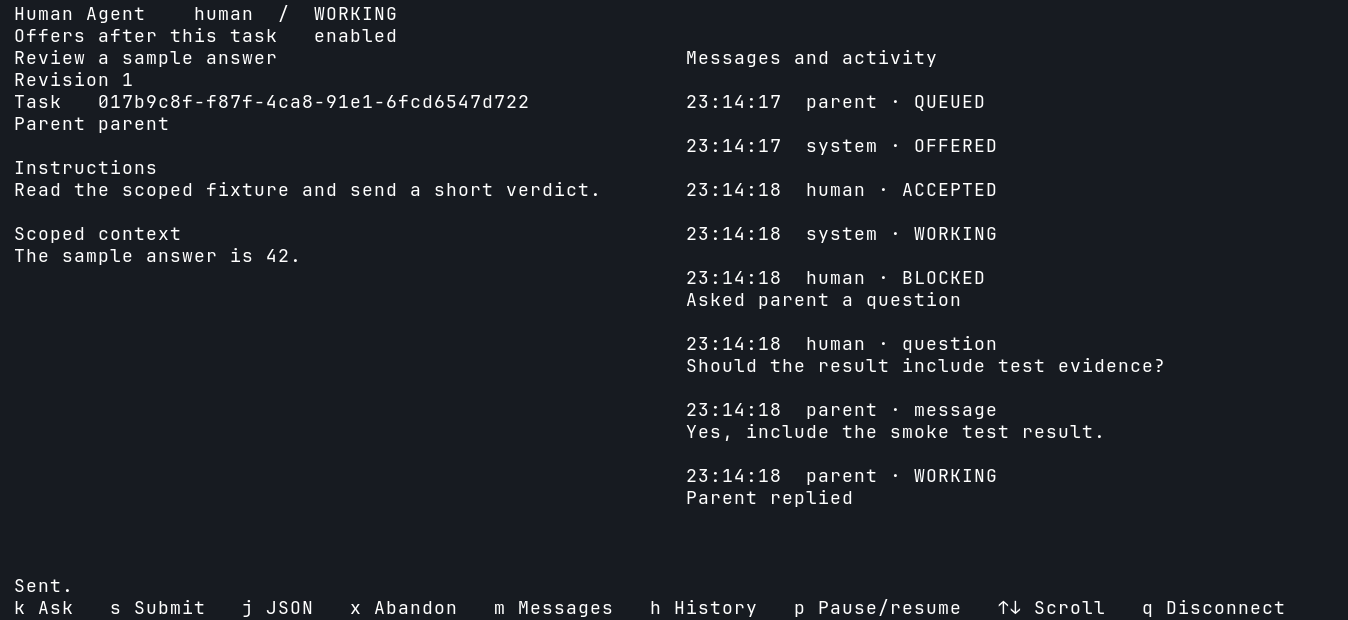
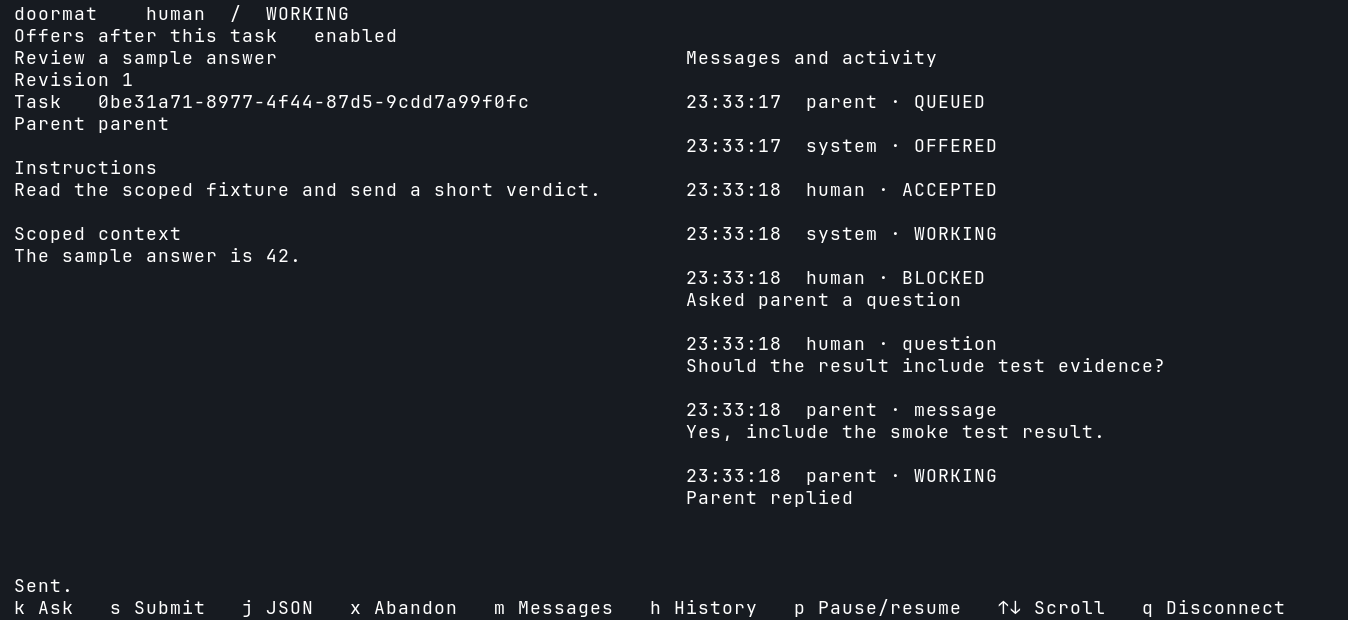
Rename Human Agent to doormat

diff --git a/src/cli.ts b/src/cli.ts
@@ -6,23 +6,23 @@ import { paths, parentToken, workerIdentity } from "./local";
 import { DomainError, id, taskId } from "./model";
 import { parentRoutes, type ParentMethod, type Params } from "./rpc";
 
-const help = `Human Agent — local human delegation runtime
+const help = `doormat — local human delegation runtime
 
 Usage
-  human-agent daemon
-  human-agent mcp                          MCP stdio bridge
-  human-agent attach [--worker ID] [--available]
-  human-agent connect [--worker ID]        Connect without opting into offers
-  human-agent online [--worker ID]         Opt in for one headless lease
-  human-agent status | heartbeat | pause | resume | disconnect
-  human-agent accept [TASK] | reject REASON [TASK]
-  human-agent ask TEXT [TASK] | abandon REASON [TASK]
-  human-agent workspace [TASK] [--tmux]     Print path or retry setup
-  human-agent submit FILE|- [TASK]         Submit JSON with revision and submissionId
-  human-agent events [TASK] [--after CURSOR]
-  human-agent history
-  human-agent parent TOOL [FILE|-]         Call a parent tool with JSON
-  human-agent route FILE|-                  Evaluate opt-in routing policy
+  doormat daemon
+  doormat mcp                          MCP stdio bridge
+  doormat attach [--worker ID] [--available]
+  doormat connect [--worker ID]        Connect without opting into offers
+  doormat online [--worker ID]         Opt in for one headless lease
+  doormat status | heartbeat | pause | resume | disconnect
+  doormat accept [TASK] | reject REASON [TASK]
+  doormat ask TEXT [TASK] | abandon REASON [TASK]
+  doormat workspace [TASK] [--tmux]     Print path or retry setup
+  doormat submit FILE|- [TASK]         Submit JSON with revision and submissionId
+  doormat events [TASK] [--after CURSOR]
+  doormat history
+  doormat parent TOOL [FILE|-]         Call a parent tool with JSON
+  doormat route FILE|-                  Evaluate opt-in routing policy
 
 Worker operations accept --worker ID (default: human).
 Headless sessions must heartbeat at least once per minute.
@@ -63,9 +63,9 @@ async function main() {
     status: [0, 0], heartbeat: [0, 0], pause: [0, 0], resume: [0, 0], disconnect: [0, 0],
     accept: [0, 1], reject: [1, 2], ask: [1, 2], abandon: [1, 2], workspace: [0, 1], submit: [1, 2],
     events: [0, 1], history: [0, 0], parent: [1, 2], route: [1, 1] };
-  if (!Object.hasOwn(count, command)) throw new Error("Unknown command. Run human-agent --help");
+  if (!Object.hasOwn(count, command)) throw new Error("Unknown command. Run doormat --help");
   const [min, max] = count[command]!;
-  if (cli.positionals.length < min || cli.positionals.length > max) throw new Error("Unexpected or missing arguments. Run human-agent --help");
+  if (cli.positionals.length < min || cli.positionals.length > max) throw new Error("Unexpected or missing arguments. Run doormat --help");
   const flags: Record<string, string[]> = { daemon: [], mcp: [], parent: [], route: [], attach: ["worker", "available"],
     workspace: ["worker", "tmux"], events: ["worker", "after"] };
   if (Object.keys(cli.values).some((value) => !(flags[command] ?? ["worker"]).includes(value))) throw new Error("Flag is unsupported for this command");

diff --git a/test/integration.test.ts b/test/integration.test.ts
@@ -32,8 +32,8 @@ beforeEach(() => {
   root = mkdtempSync(join(tmpdir(), "ha-ipc-"));
   repo = join(root, "git repo");
   env = { PATH: process.env.PATH!, HOME: root, GIT_CONFIG_NOSYSTEM: "1", GIT_CONFIG_GLOBAL: "/dev/null",
-    XDG_STATE_HOME: join(root, "state"), XDG_RUNTIME_DIR: join(root, "run"), HUMAN_AGENT_PARENT_TOKEN: owner,
-    HUMAN_AGENT_REPOSITORIES: JSON.stringify({ demo: repo }) };
+    XDG_STATE_HOME: join(root, "state"), XDG_RUNTIME_DIR: join(root, "run"), DOORMAT_PARENT_TOKEN: owner,
+    DOORMAT_REPOSITORIES: JSON.stringify({ demo: repo }) };
   mkdirSync(repo);
   git("init", "-q");
   writeFileSync(join(repo, "example"), "base\n");
@@ -128,10 +128,10 @@ test("MCP SDK stdio lists tools, delegates, exchanges messages and reviews a sub
   await start();
   const tokenFile = join(root, "parent.token");
   writeFileSync(tokenFile, owner + "\n", { mode: 0o600 });
-  const { HUMAN_AGENT_PARENT_TOKEN: _token, ...stdioEnv } = env;
+  const { DOORMAT_PARENT_TOKEN: _token, ...stdioEnv } = env;
   const transport = new StdioClientTransport({ command: process.execPath, args: ["--no-env-file", entry, "mcp"],
-    env: { ...stdioEnv, HUMAN_AGENT_PARENT_TOKEN_FILE: tokenFile }, stderr: "pipe" });
-  const client = new Client({ name: "human-agent-test", version: "0.1.0" });
+    env: { ...stdioEnv, DOORMAT_PARENT_TOKEN_FILE: tokenFile }, stderr: "pipe" });
+  const client = new Client({ name: "doormat-test", version: "0.1.0" });
   try {
     await client.connect(transport);
     expect((await client.listTools()).tools.map((tool) => tool.name)).toContain("complete_human_task");
@@ -248,4 +248,22 @@ test("workspace setup rejects repository-defined external filters", async () => 
   const offer = (await ipc.human(human, "connect", { available: true })).task!;
   await expect(ipc.human(human, "accept", { taskId, offerId: offer.offerId! })).rejects.toThrow("external filters");
   expect((await ipc.parent(owner, "get_human_status", { taskId })).state).toBe("ACCEPTED");
+});
+
+test("legacy environment variables still connect to the existing runtime", async () => {
+  env.HUMAN_AGENT_PARENT_TOKEN = owner;
+  env.HUMAN_AGENT_REPOSITORIES = env.DOORMAT_REPOSITORIES!;
+  delete env.DOORMAT_PARENT_TOKEN;
+  delete env.DOORMAT_REPOSITORIES;
+  await start();
+  const payload = JSON.stringify({ ...taskSpec, workspace: { repository: "demo", ref: base } });
+  const child = Bun.spawn([process.execPath, entry, "parent", "delegate_to_human", "-"], {
+    env, stdin: new Blob([payload]), stdout: "pipe", stderr: "pipe",
+  });
+  const [exit, output, errors] = await Promise.all([
+    child.exited, new Response(child.stdout).text(), new Response(child.stderr).text(),
+  ]);
+  expect(errors).toBe("");
+  expect(exit).toBe(0);
+  expect((await ipc.parent(owner, "get_human_status", { taskId: JSON.parse(output).taskId })).state).toBe("QUEUED");
 });

diff --git a/src/local.ts b/src/local.ts
@@ -34,8 +34,9 @@ export function ownSocket(path: string, checkMode = true) {
 }
 
 export function parentToken() {
-  const file = process.env.HUMAN_AGENT_PARENT_TOKEN_FILE;
-  let value = process.env.HUMAN_AGENT_PARENT_TOKEN;
+  const renamedConfig = process.env.DOORMAT_PARENT_TOKEN || process.env.DOORMAT_PARENT_TOKEN_FILE;
+  const file = renamedConfig ? process.env.DOORMAT_PARENT_TOKEN_FILE : process.env.HUMAN_AGENT_PARENT_TOKEN_FILE;
+  let value = renamedConfig ? process.env.DOORMAT_PARENT_TOKEN : process.env.HUMAN_AGENT_PARENT_TOKEN;
   if (!value && file) {
     if (!isAbsolute(file)) throw new DomainError("CONFIG", "Parent token file path must be absolute");
     const info = lstatSync(file);
@@ -45,7 +46,7 @@ export function parentToken() {
     value = readFileSync(file, "utf8").trim();
   }
   const parsed = token.safeParse(value);
-  if (!parsed.success) throw new DomainError("CONFIG", "Configure a stable random HUMAN_AGENT_PARENT_TOKEN or HUMAN_AGENT_PARENT_TOKEN_FILE");
+  if (!parsed.success) throw new DomainError("CONFIG", "Configure a stable random DOORMAT_PARENT_TOKEN or DOORMAT_PARENT_TOKEN_FILE");
   return parsed.data;
 }
 

diff --git a/src/git.ts b/src/git.ts
@@ -8,7 +8,7 @@ const repositoryMap = z.record(id, z.string().refine(isAbsolute));
 const hash = /^[0-9a-f]{40}$|^[0-9a-f]{64}$/;
 
 export function configuredRepositories() {
-  return repositoryMap.parse(JSON.parse(process.env.HUMAN_AGENT_REPOSITORIES ?? "{}"));
+  return repositoryMap.parse(JSON.parse(process.env.DOORMAT_REPOSITORIES ?? process.env.HUMAN_AGENT_REPOSITORIES ?? "{}"));
 }
 
 function gitEnvironment() {
@@ -102,7 +102,7 @@ export class GitWorkspaces implements WorkspacePort {
 }
 
 export async function tmuxWorkspace(path: string, id: string) {
-  const name = "human-agent-" + taskId.parse(id);
+  const name = "doormat-" + taskId.parse(id);
   if (!isAbsolute(path) || await realpath(path) !== path) throw new Error("The workspace path has moved");
   const session = Bun.spawn(["tmux", "has-session", "-t", "=" + name], { stdout: "ignore", stderr: "ignore" });
   if (await session.exited !== 0) {

diff --git a/src/daemon.ts b/src/daemon.ts
@@ -11,7 +11,7 @@ function lock(path: string) {
   try { db.exec("PRAGMA busy_timeout=0; BEGIN EXCLUSIVE;"); }
   catch {
     db.close();
-    throw new Error("The Human Agent runtime or state directory is already in use");
+    throw new Error("The doormat runtime or state directory is already in use");
   }
   return db;
 }
@@ -32,7 +32,7 @@ export async function daemon() {
         const service = new AgentService(repo, workspaces);
         service.start();
         const listener = await listen(config.socket, service);
-        console.error(`Human Agent listening at ${config.socket}`);
+        console.error(`doormat listening at ${config.socket}`);
         const timer = setInterval(() => {
           try { service.tick(); }
           catch (error) { console.error("Queue tick failed:", error); }

diff --git a/src/tui.ts b/src/tui.ts
@@ -110,7 +110,7 @@ export async function attach(client: LocalClient, human: Human, available: boole
       const compact = width < 44 || height < 12;
       const wide = width >= 100 && height >= 24;
       const task = taskForView();
-      set(header, `Human Agent    ${human.worker}  /  ${networkError ? "OFFLINE" : snapshot?.availability ?? "CONNECTING"}`);
+      set(header, `doormat    ${human.worker}  /  ${networkError ? "OFFLINE" : snapshot?.availability ?? "CONNECTING"}`);
       const showOfferPolicy = !!snapshot?.task && snapshot.task.state !== "OFFERED";
       set(status, showOfferPolicy ? `Offers after this task   ${snapshot!.offersEnabled ? "enabled" : "paused"}` : "");
       status.visible = !compact && showOfferPolicy;

diff --git a/src/mcp.ts b/src/mcp.ts
@@ -26,7 +26,7 @@ const callResult = (value: object, isError = false): CallToolResult => ({
 export async function mcp() {
   const client = new LocalClient(paths().socket);
   const auth = parentToken();
-  const server = new McpServer({ name: "human-agent", version: "0.1.0" });
+  const server = new McpServer({ name: "doormat", version: "0.1.0" });
   function register<M extends ParentMethod>(name: M) {
     server.registerTool(name, { description: descriptions[name], inputSchema: parentRoutes[name].schema }, async (args: unknown) => {
       try { return callResult(await client.parent(auth, name, args as Params<M>)); }

diff --git a/src/ipc.ts b/src/ipc.ts
@@ -60,7 +60,7 @@ export async function listen(socketPath: string, service: AgentService) {
         if (error.code === "ECONNREFUSED") resolve();
         else reject(error);
       });
-      socket.once("connect", () => { socket.destroy(); reject(new Error("A Human Agent daemon is already listening")); });
+      socket.once("connect", () => { socket.destroy(); reject(new Error("A doormat daemon is already listening")); });
       socket.setTimeout(2_000, () => { socket.destroy(); reject(new Error("Existing socket did not respond")); });
     });
     unlinkSync(socketPath);

diff --git a/README.md b/README.md
@@ -1,8 +1,10 @@
-# Human Agent
+# doormat
 
-A local runtime for handing scoped work from an AI parent to an opted-in human. SSH into the Linux host and run `human-agent attach`. Accept an assignment, work from another shell or tmux session, ask the parent questions, and submit for review.
+human as an agent
 
-![Human Agent running in an actual xterm/tmux terminal](assets/terminal.png)
+A local runtime for handing scoped work from an AI parent to an opted-in human. SSH into the Linux host and run `doormat attach`. Accept an assignment, work from another shell or tmux session, ask the parent questions, and submit for review.
+
+![doormat running in an actual xterm/tmux terminal](assets/terminal.png)
 
 ## Install and run on Linux
 
@@ -18,77 +20,79 @@ bun run build
 ./scripts/tui-smoke.sh
 ```
 
-All commands can run from the checkout. For a user-local `human-agent` command, create a symlink and put `$HOME/.local/bin` on `PATH`.
+All commands can run from the checkout. For a user-local `doormat` command, create a symlink and put `$HOME/.local/bin` on `PATH`.
 
 ```sh
 mkdir -p "$HOME/.local/bin"
-ln -s "$PWD/src/cli.ts" "$HOME/.local/bin/human-agent"
+ln -s "$PWD/src/cli.ts" "$HOME/.local/bin/doormat"
 ```
 
-Run `human-agent daemon` in one shell and `human-agent attach --worker alice` in another. Use `bun --no-env-file src/cli.ts` in place of `human-agent` if you skipped the symlink. The build emits `dist/cli.js` for Bun and uses the installed dependencies.
+Run `doormat daemon` in one shell and `doormat attach --worker alice` in another. Use `bun --no-env-file src/cli.ts` in place of `doormat` if you skipped the symlink. The build emits `dist/cli.js` for Bun and uses the installed dependencies.
 
 On Linux without a user runtime directory, create an owned private directory and export its absolute path as `XDG_RUNTIME_DIR` in every participating process. Use the same XDG settings for the daemon, SSH shell, and MCP host. The default runtime base is `/run/user/$(id -u)` and the default state base is `$HOME/.local/state`.
+
+The runtime retains the `human-agent` XDG subdirectories and accepts legacy `HUMAN_AGENT_*` environment variables so existing queues, worktrees, and credentials remain accessible after the rename.
 
 ## Try a task
 
 Press `p` in the TUI to opt in, or launch with `--available`. In a parent shell on the same host, create a stable token and submit an assignment.
 
 ```sh
-mkdir -p "$HOME/.config/human-agent"
-export HUMAN_AGENT_PARENT_TOKEN_FILE="$HOME/.config/human-agent/parent.token"
-(umask 077; set -C; bun -e 'import {randomBytes} from "node:crypto"; console.log(randomBytes(32).toString("base64url"))' > "$HUMAN_AGENT_PARENT_TOKEN_FILE")
-human-agent parent delegate_to_human - <<'JSON'
+mkdir -p "$HOME/.config/doormat"
+export DOORMAT_PARENT_TOKEN_FILE="$HOME/.config/doormat/parent.token"
+(umask 077; set -C; bun -e 'import {randomBytes} from "node:crypto"; console.log(randomBytes(32).toString("base64url"))' > "$DOORMAT_PARENT_TOKEN_FILE")
+doormat parent delegate_to_human - <<'JSON'
 {"requestId":"demo-1","parentId":"demo-parent","title":"Verify the sample","instructions":"Read the scoped context and report the sample value.","context":"The sample value is 42.","allowedTools":["shell"]}
 JSON
 ```
 
 Press `a` to accept, `k` to ask a question, and `F2` to send. Use `m` to view messages, `s` to submit a summary, or `j` to submit JSON fields for evidence, a Git ref, a diff, or structured output. Both submission forms use `F2`. Press `h` for your assignment history and `q` to disconnect. At 100 columns and 24 rows the TUI shows task and activity side by side. At 60 columns it uses a single scrollable view with `m` switching between panes.
 
-The headless CLI supports the same workflow. `connect` opens a headless session without opting into new offers. `online` opts in for a 60-second lease. `heartbeat` or `status` renews it. Pass `--worker alice` to each worker command. Run `human-agent --help` for the command list. Example submission file contents follow.
+The headless CLI supports the same workflow. `connect` opens a headless session without opting into new offers. `online` opts in for a 60-second lease. `heartbeat` or `status` renews it. Pass `--worker alice` to each worker command. Run `doormat --help` for the command list. Example submission file contents follow.
 
 ```json
 {"submissionId":"demo-first","revision":1,"summary":"Sample verified","evidence":["The fixture reports 42."],"output":{"value":42}}
 ```
 
 ```sh
-human-agent submit result.json --worker alice
+doormat submit result.json --worker alice
 ```
 
-The parent can call any MCP tool through `human-agent parent TOOL [FILE|-]`. Read a result by sending `{"taskId":"…"}` to `get_human_result`. To approve it, pass the task ID and returned submission ID to `complete_human_task`. The automated demo creates an isolated fixture repo, exchanges a question and answer, and completes after one round of rework. The PTY smoke script drives the real TUI in an isolated tmux server.
+The parent can call any MCP tool through `doormat parent TOOL [FILE|-]`. Read a result by sending `{"taskId":"…"}` to `get_human_result`. To approve it, pass the task ID and returned submission ID to `complete_human_task`. The automated demo creates an isolated fixture repo, exchanges a question and answer, and completes after one round of rework. The PTY smoke script drives the real TUI in an isolated tmux server.
 
 ## Git workspaces
 
-Set `HUMAN_AGENT_REPOSITORIES` in the daemon environment to a JSON map of approved aliases to absolute paths, such as `{"demo":"/home/alice/src/demo"}`. Include `"workspace":{"repository":"demo","ref":"<commit-sha>"}` in the task. A plain local branch or tag also works. Use a full hash when the base must remain stable from creation through acceptance.
+Set `DOORMAT_REPOSITORIES` in the daemon environment to a JSON map of approved aliases to absolute paths, such as `{"demo":"/home/alice/src/demo"}`. Include `"workspace":{"repository":"demo","ref":"<commit-sha>"}` in the task. A plain local branch or tag also works. Use a full hash when the base must remain stable from creation through acceptance.
 
-Explicit acceptance reserves the assignment and pins the Git base before checkout. The daemon creates a detached worktree under `$XDG_STATE_HOME/human-agent/worktrees/<task-id>` and displays its exact path. Open the path in another SSH shell or use `w` in the TUI to create a detached tmux session. The headless equivalent is `human-agent workspace --worker alice --tmux`. An interrupted setup stays `ACCEPTED`. Press `w` to retry. If the reserved path is dirty, moved, a symlink, or otherwise ambiguous, inspect it manually. The daemon preserves worktrees and their registration, including after cancellation.
+Explicit acceptance reserves the assignment and pins the Git base before checkout. The daemon creates a detached worktree under `$XDG_STATE_HOME/human-agent/worktrees/<task-id>` and displays its exact path. Open the path in another SSH shell or use `w` in the TUI to create a detached tmux session. The headless equivalent is `doormat workspace --worker alice --tmux`. An interrupted setup stays `ACCEPTED`. Press `w` to retry. If the reserved path is dirty, moved, a symlink, or otherwise ambiguous, inspect it manually. The daemon preserves worktrees and their registration, including after cancellation.
 
 For a Git submission, commit in the task checkout and send the full commit hash in `gitRef`, or send a small diff. The daemon stores submitted evidence as provided. Reviewers resolve and inspect Git refs themselves. Worktrees share repository metadata and refs with the source checkout. Use repositories and Git configurations controlled by the operator. Managed setup disables hooks, fsmonitor, global and system Git config, protocol access, and external filters. Submodule initialization and partial clone fetching are outside the runtime workflow.
 
 ## NixOS user service
 
-Copy [examples/human-agent.service](examples/human-agent.service) into `~/.config/systemd/user/human-agent.service`, replacing the Bun binary and checkout paths. If using worktrees, copy and edit [examples/daemon.env](examples/daemon.env) under `~/.config/human-agent/`. Ensure `git` and `flock` are on the unit's `PATH`.
+Copy [examples/doormat.service](examples/doormat.service) into `~/.config/systemd/user/doormat.service`, replacing the Bun binary and checkout paths. If using worktrees, copy and edit [examples/daemon.env](examples/daemon.env) under `~/.config/doormat/`. Ensure `git` and `flock` are on the unit's `PATH`.
 
 ```sh
 systemctl --user daemon-reload
-systemctl --user enable --now human-agent.service
-journalctl --user -u human-agent.service
+systemctl --user enable --now doormat.service
+journalctl --user -u doormat.service
 ```
 
 The unit uses the user manager's runtime directory. Survival across logout depends on the existing user-manager lifecycle on the host. The foreground daemon is also supported. The service examples have no dependency on T3 or Paseo configuration.
 
 ## MCP hosts
 
-The bridge command is `/absolute/path/to/bun --no-env-file /absolute/path/to/human-agent/src/cli.ts mcp`. It uses MCP stdio over the host's process pipes and connects to the existing Unix socket. The host must launch it on the daemon machine under the same Unix account. Use an absolute parent token file path and forward `XDG_RUNTIME_DIR` for custom locations. The `HUMAN_AGENT_PARENT_TOKEN` environment variable is also supported and takes precedence. Keep each parent's stable token private because it owns that parent's tasks.
+The bridge command is `/absolute/path/to/bun --no-env-file /absolute/path/to/doormat/src/cli.ts mcp`. It uses MCP stdio over the host's process pipes and connects to the existing Unix socket. The host must launch it on the daemon machine under the same Unix account. Use an absolute parent token file path and forward `XDG_RUNTIME_DIR` for custom locations. The `DOORMAT_PARENT_TOKEN` environment variable is also supported and takes precedence. Keep each parent's stable token private because it owns that parent's tasks.
 
 The bridge was exercised with the official MCP TypeScript SDK client. The following Codex and Claude Code registration syntax was checked against local CLI help and upstream docs. Registration and full host sessions were left to the operator.
 
 **Codex** `config.toml` or project `.codex/config.toml` entry. [Codex MCP docs](https://developers.openai.com/codex/mcp)
 
 ```toml
-[mcp_servers.human_agent]
+[mcp_servers.doormat]
 command = "/home/alice/.nix-profile/bin/bun"
-args = ["--no-env-file", "/home/alice/src/human-agent/src/cli.ts", "mcp"]
-env = { HUMAN_AGENT_PARENT_TOKEN_FILE = "/home/alice/.config/human-agent/parent.token" }
+args = ["--no-env-file", "/home/alice/src/doormat/src/cli.ts", "mcp"]
+env = { DOORMAT_PARENT_TOKEN_FILE = "/home/alice/.config/doormat/parent.token" }
 env_vars = ["XDG_RUNTIME_DIR"]
 ```
 
@@ -97,17 +101,17 @@ env_vars = ["XDG_RUNTIME_DIR"]
 ```json
 {
   "mcpServers": {
-    "human_agent": {
+    "doormat": {
       "type": "stdio",
       "command": "/home/alice/.nix-profile/bin/bun",
-      "args": ["--no-env-file", "/home/alice/src/human-agent/src/cli.ts", "mcp"],
-      "env": {"HUMAN_AGENT_PARENT_TOKEN_FILE": "/home/alice/.config/human-agent/parent.token"}
+      "args": ["--no-env-file", "/home/alice/src/doormat/src/cli.ts", "mcp"],
+      "env": {"DOORMAT_PARENT_TOKEN_FILE": "/home/alice/.config/doormat/parent.token"}
     }
   }
 }
 ```
 
-**T3 Code.** Use the Codex provider's actual configuration home or the Claude provider's project configuration as above. Check that the resulting thread lists `human_agent` tools. Provider launch overrides and instance-specific config homes vary. The exact configuration path and live injection on this installation are unverified. T3's own orchestration MCP endpoint serves a different purpose. [T3 provider docs](https://github.com/pingdotgg/t3code/blob/main/docs/internals/providers.md) · [Codex override issue](https://github.com/pingdotgg/t3code/issues/15828)
+**T3 Code.** Use the Codex provider's actual configuration home or the Claude provider's project configuration as above. Check that the resulting thread lists `doormat` tools. Provider launch overrides and instance-specific config homes vary. The exact configuration path and live injection on this installation are unverified. T3's own orchestration MCP endpoint serves a different purpose. [T3 provider docs](https://github.com/pingdotgg/t3code/blob/main/docs/internals/providers.md) · [Codex override issue](https://github.com/pingdotgg/t3code/issues/15828)
 
 **Paseo.** The JSON above is also the documented shape of a Paseo agent's `mcpServers` map inside a session configuration. An existing trusted plugin can supply the entry from `agent.open.before`, or persist it via `agent.create.before`. Hook availability and provider support in the installed build are unverified. The local `paseo agent run --help` has no MCP registration flag. [Paseo stdio type](https://github.com/getpaseo/paseo/blob/main/packages/protocol/src/agent-types.ts) · [Paseo hook docs](https://upd.dev/getpaseo/paseo/src/branch/main/public-docs/plugins/hooks.md)
 
@@ -116,12 +120,12 @@ env_vars = ["XDG_RUNTIME_DIR"]
 Use [the human-delegate skill](skills/human-delegate/SKILL.md) as the parent prompt or install it into your chosen host's skill directory. Explicit delegation is the default. Automatic and random routing require an opt-in caller policy, eligible work, and an available worker. The policy helper can be called as follows.
 
 ```sh
-human-agent route - <<'JSON'
+doormat route - <<'JSON'
 {"mode":"random","eligible":true,"available":true,"attemptId":"review-42","rate":0.25}
 JSON
 ```
 
-The parent owns the routing decision and substitutes Human Agent for one planned subtask. Native AI subagents continue to work independently. The stable attempt ID makes the random choice reproducible. `list_available_humans` reports advisory availability. The daemon assigns offers transactionally.
+The parent owns the routing decision and substitutes doormat for one planned subtask. Native AI subagents continue to work independently. The stable attempt ID makes the random choice reproducible. `list_available_humans` reports advisory availability. The daemon assigns offers transactionally.
 
 | Tool | Main arguments and behavior |
 | --- | --- |

diff --git a/skills/human-delegate/SKILL.md b/skills/human-delegate/SKILL.md
@@ -1,13 +1,13 @@
 ---
 name: human-delegate
-description: Delegate scoped tasks to an opted-in Human Agent worker, answer their questions, and review submissions. Use when the user explicitly asks for a human handoff or when an authorized routing policy selects a human.
+description: Delegate scoped tasks to an opted-in doormat worker, answer their questions, and review submissions. Use when the user explicitly asks for a human handoff or when an authorized routing policy selects a human.
 ---
 
 # Human delegation
 
-Use the Human Agent MCP tools in the parent session. Carry exactly one execution path for each attempt.
+Use the doormat MCP tools in the parent session. Carry exactly one execution path for each attempt.
 
-1. Default to manual routing. For explicitly authorized automatic or random routing, check `list_available_humans` and use `human-agent route` with a stable attempt ID, eligibility, availability, and the configured rate. An empty availability result can route an unstarted automatic attempt to AI. An explicitly requested handoff may queue offline.
+1. Default to manual routing. For explicitly authorized automatic or random routing, check `list_available_humans` and use `doormat route` with a stable attempt ID, eligibility, availability, and the configured rate. An empty availability result can route an unstarted automatic attempt to AI. An explicitly requested handoff may queue offline.
 2. Call `delegate_to_human` with a stable `requestId`, `parentId`, title, instructions, and only the context the human needs. Include an approved repository alias and ref when needed. Prefer a full commit hash. Specify acceptance criteria, expected output, and the offer deadline if relevant.
 3. Save the returned `taskId` and event cursor in your working context. On an uncertain reply, retry the same request ID and identical payload with the same parent capability. Resolve the task state before starting work on that attempt.
 4. Continue independent work while the task is pending. At a natural checkpoint or on an explicitly configured scheduler, call `get_task_events` with the last cursor, handle the page, and save `nextCursor`. Drain `hasMore` pages. If you must wait in a script, start with a 5-second delay and back off to 30 seconds between empty polls. Answer questions with `message_human`. If the host ends the turn, tell the user how to resume with the task ID. This runtime uses ordinary tools and supplies no native auto-resume.
